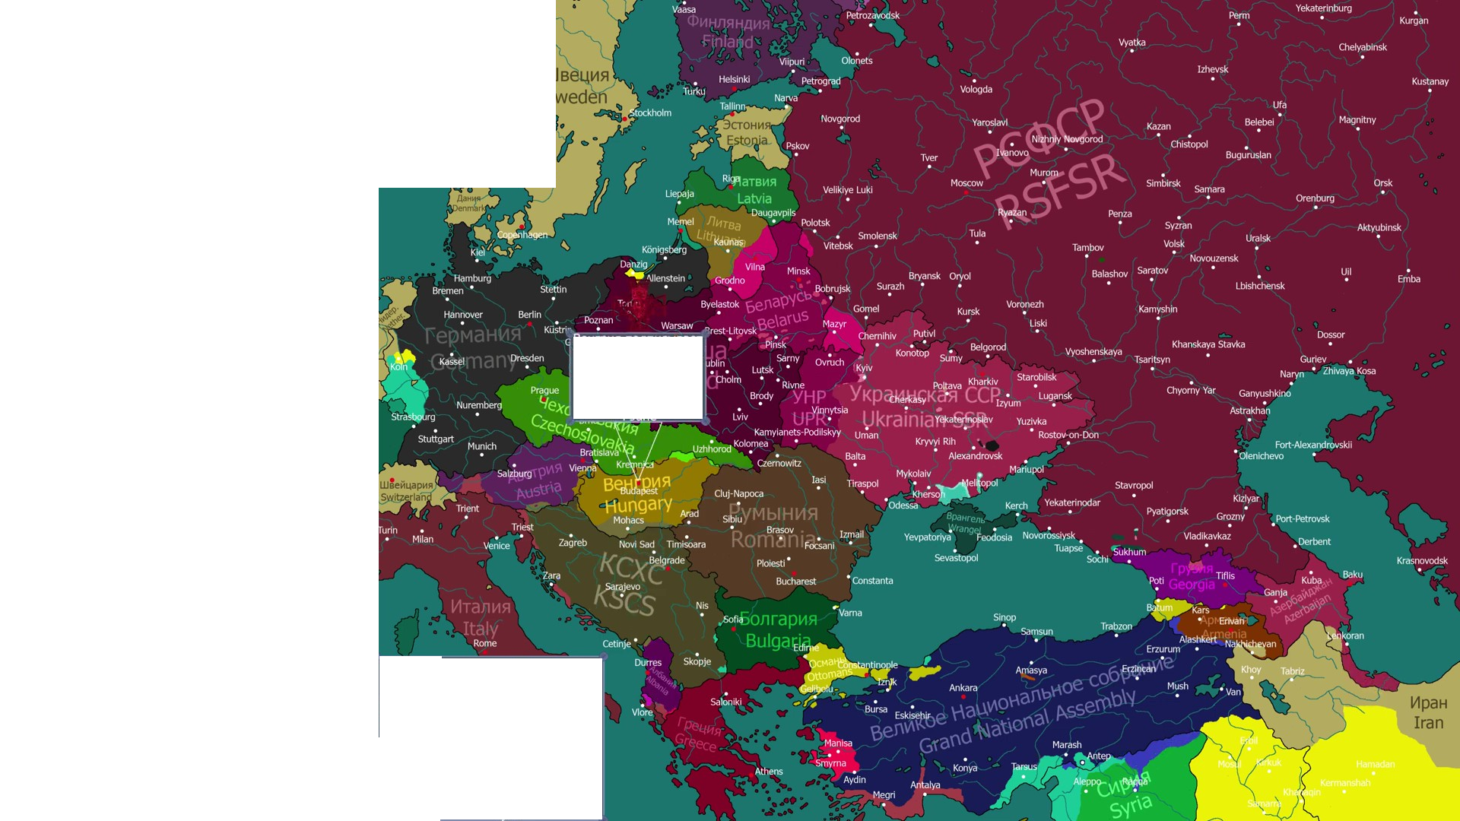
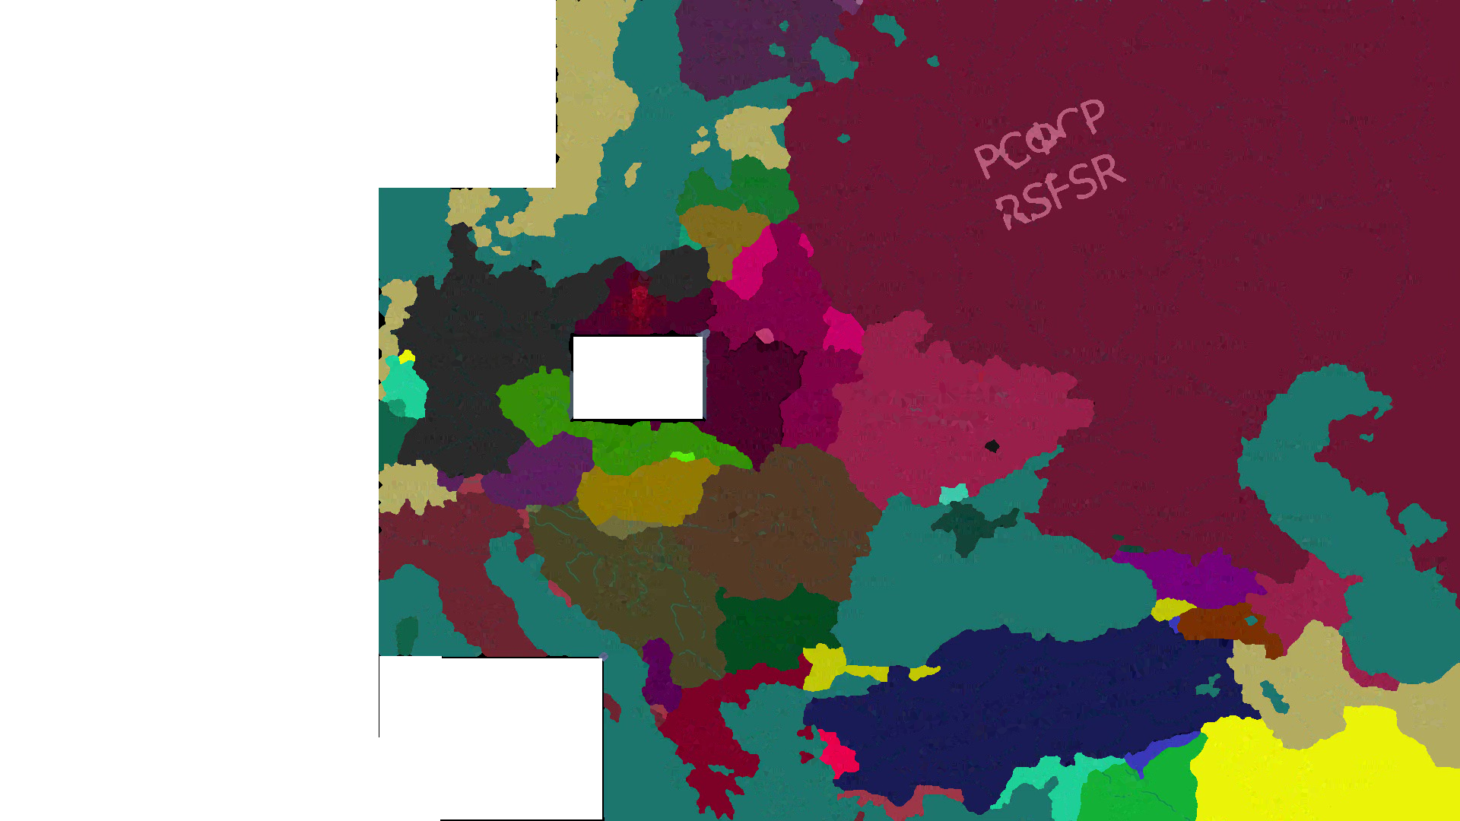
this now removes txt

diff --git a/main/_test_easyocr.py b/main/_test_easyocr.py
@@ -13,20 +13,16 @@ def denoiseMap (img_pil):
   has_alpha = img_np.shape[2] == 4
   img_rgb = cv2.cvtColor(img_np, cv2.COLOR_RGBA2RGB if has_alpha else cv2.COLOR_BGR2RGB)
   
-  # Smooth antialiased edges using mean shift filtering
   filtered = cv2.pyrMeanShiftFiltering(img_rgb, 7, 15)
   
-  # Colour thresholding via quantisation to handle antialiased JPEG edges
   pixels = filtered.reshape(-1, 3)
   quantised_pixels = (pixels//16)*16
   quantised_img = quantised_pixels.reshape(img_rgb.shape)
   
-  # Compute boundary pixel counts using morphological gradient
   kernel = np.ones((3, 3), np.uint8)
   grad = cv2.morphologyEx(quantised_img, cv2.MORPH_GRADIENT, kernel)
   edge_mask = (np.max(grad, axis=2) > 20).astype(np.uint8)
   
-  # Connected components analysis to identify thin networks with high neighbour ratios
   num_labels, labels, stats, _ = cv2.connectedComponentsWithStats(1-edge_mask, connectivity=8)
   
   bin_mask = np.zeros(img_rgb.shape[:2], dtype=bool)
@@ -37,7 +33,6 @@ def denoiseMap (img_pil):
     if area < 30:
       bin_mask[labels == label_idx] = True
       
-  # kNN binning: inherit colour of nearest valid pixel
   _, indices = distance_transform_edt(bin_mask, return_indices=True)
   denoised_rgb = img_rgb[indices[0], indices[1]]
   
@@ -223,6 +218,34 @@ def maskInfoboxes (img_pil):
   
   return Image.fromarray(img_np), Image.fromarray(preview_img)
 
+def postProcessMap (img_pil, reader_obj):
+  img_np = np.array(img_pil)
+  has_alpha = img_np.shape[2] == 4
+  img_rgb = cv2.cvtColor(img_np, cv2.COLOR_RGBA2RGB if has_alpha else cv2.COLOR_BGR2RGB)
+  
+  # Step 1: Secondary OCR pass on denoised output to locate remaining text & kNN bin
+  ocr_results_post = reader_obj.readtext(img_rgb)
+  text_mask = np.zeros(img_rgb.shape[:2], dtype=bool)
+  
+  for bbox, text, prob in ocr_results_post:
+    box_pts = np.array(bbox, dtype=np.int32)
+    cv2.fillPoly(text_mask, [box_pts], True)
+    
+  if np.any(text_mask):
+    _, indices = distance_transform_edt(text_mask, return_indices=True)
+    img_rgb = img_rgb[indices[0], indices[1]]
+    
+  # Step 2: In-segment grain smoothing via Bilateral & Median Filtering
+  smooth_rgb = cv2.bilateralFilter(img_rgb, 9, 75, 75)
+  smooth_rgb = cv2.medianBlur(smooth_rgb, 5)
+  
+  if has_alpha:
+    out_np = np.dstack((smooth_rgb, img_np[:, :, 3]))
+  else:
+    out_np = smooth_rgb
+    
+  return Image.fromarray(out_np)
+
 def processMap (image_file, reader_obj):
   img_pil = Image.open(image_file).convert("RGBA")
   
@@ -233,11 +256,14 @@ def processMap (image_file, reader_obj):
   # 2. Masking
   img_pil, preview_pil = maskInfoboxes(img_pil)
   
-  # 3. Denoising thin networks (rivers, borders, text labels)
+  # 3. Denoising thin networks
   denoised_pil = denoiseMap(img_pil)
   
-  # 4. Draw OCR bounds
-  overlay_img = Image.new("RGBA", denoised_pil.size, (0, 0, 0, 0))
+  # 4. Post-processing: second OCR text removal & inner-segment grain removal
+  final_pil = postProcessMap(denoised_pil, reader_obj)
+  
+  # 5. Draw OCR bounds
+  overlay_img = Image.new("RGBA", final_pil.size, (0, 0, 0, 0))
   draw_obj = ImageDraw.Draw(overlay_img)
   font_obj = loadFont(14)
   
@@ -255,8 +281,8 @@ def processMap (image_file, reader_obj):
     draw_obj.rectangle(text_box, fill=(255, 255, 255, 200))
     draw_obj.text(text_pos, label_text, fill=(0, 0, 0, 255), font=font_obj)
     
-  composite_img = Image.alpha_composite(denoised_pil, overlay_img)
-  masked_img = denoised_pil
+  composite_img = Image.alpha_composite(final_pil, overlay_img)
+  masked_img = final_pil
   
   return masked_img, composite_img, preview_pil, ocr_results
 
